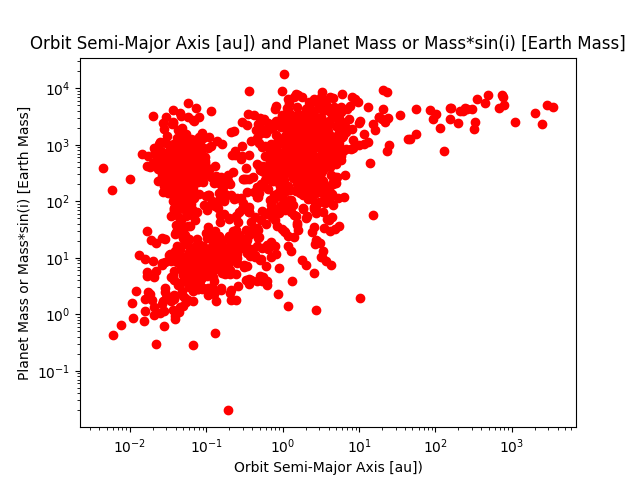
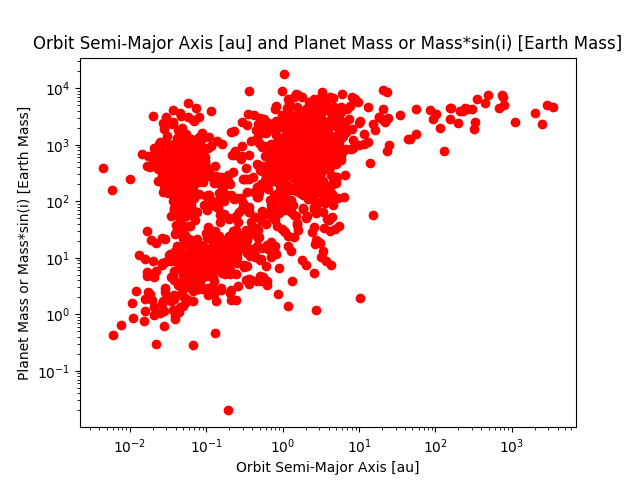
Fixed plotting issues

Changed region(s): [[0.0312, 0.0625, 1.0, 0.125], [0.3438, 0.9375, 0.6562, 1.0]]

diff --git a/src/exoanalyzer/plotter/__init__.py b/src/exoanalyzer/plotter/__init__.py
@@ -3,7 +3,7 @@ from matplotlib import pyplot as plt
 from matplotlib.ticker import ScalarFormatter
 import numpy as np
 from ..util import get_readable
-from ..util import get_pair_data, remove_outliers_from_both
+from ..util import get_pair_data, remove_outliers_from_both, remove_any_nan
 
 def save_plt(plt, file_path, file_name):
     full_path = file_path + file_name
@@ -27,6 +27,8 @@ def plot_pair_ratio(pair_data, plotLabel, **kwargs):
         'file_name': Custom name for the file.
     """
 
+    plt.clf()
+
     # setup arguments
     defaultKwargs = {
         'use_log10': True,
@@ -39,6 +41,8 @@ def plot_pair_ratio(pair_data, plotLabel, **kwargs):
 
     # define axes
     extracted = get_pair_data(pair_data, plotLabel)
+    # this could be optimized and turned into one for loop but i like the
+    # clean syntax of this solution
     x = [vals[0]/vals[1] for vals in extracted]
     y = [vals[0] for vals in extracted]
 
@@ -67,6 +71,8 @@ def plot_dual(data, x_label, y_label, **kwargs):
     Plot chart with two different categories as x and y
     """
 
+    plt.clf()
+
     # setup arguments
     defaultKwargs = {
         'use_log10': True,
@@ -76,8 +82,7 @@ def plot_dual(data, x_label, y_label, **kwargs):
     kwargs = { **defaultKwargs, **kwargs }
 
     # get axes for
-    x = [pl[x_label] for pl in data]
-    y = [pl[y_label] for pl in data]
+    x, y = remove_any_nan(data, x_label, y_label)
 
     plt.scatter(x, y, color="red")
 

diff --git a/src/exoanalyzer/data/query.py b/src/exoanalyzer/data/query.py
@@ -1,5 +1,6 @@
 """Queries the NASA Exoplanet Archive's TAP API."""
 
+from numpy import NaN
 import pyvo as vo
 
 _CLIENT_URL = "https://exoplanetarchive.ipac.caltech.edu/TAP"
@@ -56,14 +57,12 @@ def query(**kwargs):
                 dict = pl_list[used_names.index(row["pl_name"])]
                 for columnLabel in columns:
                     val = row[columnLabel]
-                    if val:
-                        dict[columnLabel] = val
+                    dict[columnLabel] = val or NaN
             else:
                 dict = {}
                 for columnLabel in columns:
                     val = row[columnLabel]
-                    if val:
-                        dict[columnLabel] = val
+                    dict[columnLabel] = val or NaN
                 pl_list.append(dict)
                 used_names.append(row["pl_name"])
 

diff --git a/src/exoanalyzer/util/data_util.py b/src/exoanalyzer/util/data_util.py
@@ -65,3 +65,27 @@ def remove_outliers_from_both(a, b, md):
             removes += 1
             a.pop(i)
             b.pop(i)
+
+# def get_datas(data, label, removeInvalid = True):
+#     datas = []
+#     for pl in data:
+#         if removeInvalid:
+#             val = pl[label]
+#             if is_num_clean(val):
+#                 datas.append(val)
+#         else:
+#             datas.append(pl[label])
+#     return datas
+
+def remove_any_nan(data, labelA, labelB):
+    listA = []
+    listB = []
+
+    for pl in data:
+        valA = pl[labelA]
+        valB = pl[labelB]
+        if is_num_clean(valA) and is_num_clean(valB):
+            listA.append(valA)
+            listB.append(valB)
+
+    return listA, listB

diff --git a/tests/local.py b/tests/local.py
@@ -5,6 +5,10 @@ import exoanalyzer
 
 data = exoanalyzer.data.query()
 exoanalyzer.plot_dual(data, 'pl_orbsmax', 'pl_bmasse', use_log10 = True)
+exoanalyzer.plot_dual(data, 'pl_orbsmax', 'pl_orbper', use_log10 = True)
+exoanalyzer.plot_dual(data, 'pl_orbsmax', 'pl_orbeccen', use_log10 = True)
 
 pairs = exoanalyzer.util.get_system_pairs(data)
-exoanalyzer.plot_pair_ratio(pairs, 'pl_orbeccen', use_log10 = False, max_deviations = 3)
+exoanalyzer.plot_pair_ratio(pairs, 'pl_bmasse', use_log10 = True, max_deviations = 3)
+exoanalyzer.plot_pair_ratio(pairs, 'pl_masse', use_log10 = True, max_deviations = 3)
+exoanalyzer.plot_pair_ratio(pairs, 'pl_orbper', use_log10 = True, max_deviations = 3)

diff --git a/src/exoanalyzer/util/readables.py b/src/exoanalyzer/util/readables.py
@@ -12,7 +12,7 @@ _READABLE_LABELS = {
         'pl_controv_flag': 'Controversial Flag',
         'pl_refname': 'Planetary Parameter Reference',
         'pl_orbper': 'Orbital Period [days]',
-        'pl_orbsmax': 'Orbit Semi-Major Axis [au])',
+        'pl_orbsmax': 'Orbit Semi-Major Axis [au]',
         'pl_rade': 'Planet Radius [Earth Radius]',
         'pl_radj': 'Planet Radius [Jupiter Radius]',
         'pl_masse': 'Planet Mass [Earth Mass]',

diff --git a/tests/big.py b/tests/big.py
@@ -3,6 +3,7 @@ import exoanalyzer
 data = exoanalyzer.data.query()
 exoanalyzer.plot_dual(data, 'pl_orbsmax', 'pl_bmasse', use_log10 = True)
 exoanalyzer.plot_dual(data, 'pl_orbsmax', 'pl_orbper', use_log10 = True)
+exoanalyzer.plot_dual(data, 'pl_orbsmax', 'pl_orbeccen', use_log10 = True)
 
 pairs = exoanalyzer.util.get_system_pairs(data)
 exoanalyzer.plot_pair_ratio(pairs, 'pl_bmasse', use_log10 = False, max_deviations = 3)

diff --git a/src/exoanalyzer/util/__init__.py b/src/exoanalyzer/util/__init__.py
@@ -1,2 +1,2 @@
-from .data_util import get_system_pairs, get_pair_data, remove_outliers_from_both
+from .data_util import get_system_pairs, get_pair_data, remove_outliers_from_both, remove_any_nan
 from .readables import get_readable
